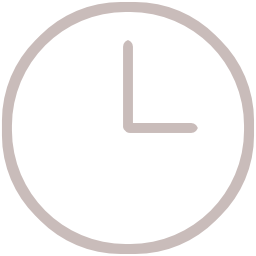
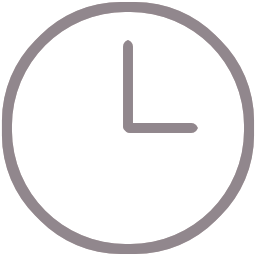
darken mobile nav colors all around

Changed region(s): [[0.0, 0.0, 1.0, 1.0], [0.4688, 0.1562, 0.7812, 0.5312]]

diff --git a/css/main.css b/css/main.css
@@ -191,16 +191,16 @@
     nav.menu.drawer.closed {
       display: none; }
     nav.menu.drawer a {
-      color: #dfd8d7; }
+      color: #a9a2a6; }
       nav.menu.drawer a.current {
-        color: #3dbfbd; }
+        color: #32858c; }
         nav.menu.drawer a.current .border {
           display: inline-block;
           width: 0;
           height: 0.5em; }
           nav.menu.drawer a.current .border::after {
             content: '';
-            border: 0.2em solid #3dbfbd;
+            border: 0.2em solid #32858c;
             border-radius: 50%;
             display: block;
             left: 0.6em;
@@ -211,7 +211,7 @@
       padding: 0; }
       nav.menu.drawer ul li {
         background: white;
-        border-top: 2px solid #f6f4f3;
+        border-top: 2px solid #dfd8d7;
         font-size: 1.2em;
         font-weight: 400;
         padding: 3vh 2vh;
@@ -307,12 +307,12 @@ nav.main.menu {
           position: relative; }
           nav.main.menu.mobile ul a.current li,
           nav.main.menu.mobile ul a.hamburger.current li {
-            color: #3dbfbd; }
+            color: #32858c; }
           nav.main.menu.mobile ul a.current .border,
           nav.main.menu.mobile ul a.hamburger.current .border {
             display: none; }
       nav.main.menu.mobile ul li {
-        color: #c9bcba;
+        color: #91878d;
         height: 100%;
         position: relative;
         text-transform: none;

diff --git a/css/scss/nav.scss b/css/scss/nav.scss
@@ -16,16 +16,16 @@ nav.menu.drawer {
 			display: none;
 		}
 		a {
-			color: lighten($grey-light, 10%);
+			color: lighten($grey-medium, 10%);
 			&.current {
-				color: $turquoise-light;
+				color: $turquoise;
 				.border {
 					display: inline-block;
 					width: 0;
 					height: 0.5em;
 					&::after {
 						content: '';
-						border: 0.2em solid $turquoise-light;
+						border: 0.2em solid $turquoise;
 						border-radius: 50%;
 						display: block;
 						left: 0.6em;
@@ -40,7 +40,7 @@ nav.menu.drawer {
 			padding: 0;
 			li {
 				background: white;
-				border-top: 2px solid lighten($grey-light, 20%);
+				border-top: 2px solid lighten($grey-light, 10%);
 				font-size: 1.2em;
 				font-weight: 400;
 				padding: 3vh 2vh;
@@ -117,7 +117,7 @@ nav.main.menu {
 				&.current {
 					position: relative;
 					li {
-						color: $turquoise-light;
+						color: $turquoise;
 					}
 					.border {
 						display: none;
@@ -128,7 +128,7 @@ nav.main.menu {
 				@include respond-to('at400') {
 					font-size: 0.8em;
 				}
-				color: $grey-light;
+				color: $grey-medium;
 				height: 100%;
 				position: relative;
 				text-transform: none;
